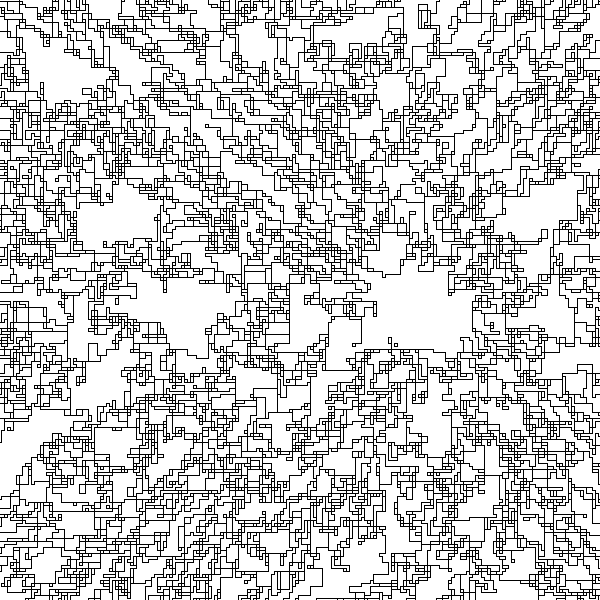
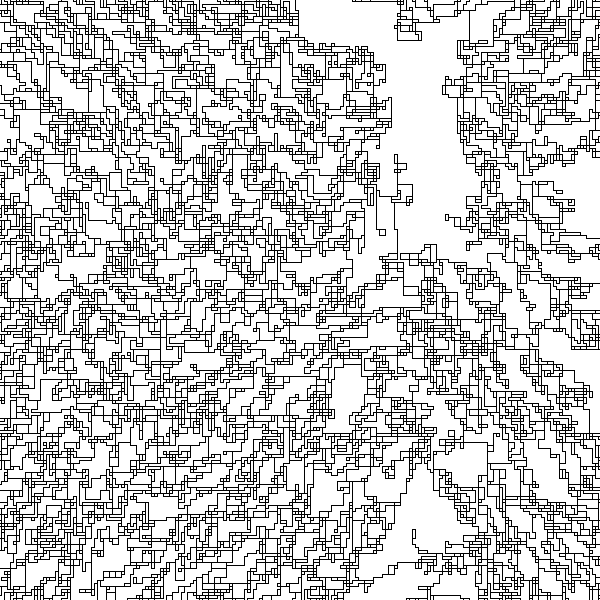
Optimised basic algorithm implementation

Changed region(s): [[0.0, 0.0, 1.0, 1.0]]

diff --git a/src/algorithm/basic.rs b/src/algorithm/basic.rs
@@ -2,14 +2,41 @@ use anyhow::{Result, bail};
 use fixedbitset::FixedBitSet;
 use indicatif::{ProgressBar, ProgressStyle};
 use ndarray::Array2;
-use photo::ALL_DIRECTIONS;
-use photo::Direction;
-use photo::Direction::*;
-use rand::distr::weighted::WeightedIndex;
-use rand::prelude::*;
-use std::collections::VecDeque;
+use photo::{ALL_DIRECTIONS, Direction};
+use rand::{distr::weighted::WeightedIndex, prelude::*};
+use std::{
+    cmp::Reverse,
+    collections::{BinaryHeap, VecDeque},
+};
 
 use crate::{Cell, Map, Rules, WaveFunction};
+
+// Precomputed direction deltas for faster access
+const DIRECTION_DELTAS: [(isize, isize); 4] = [
+    (-1, 0), // North
+    (0, 1),  // East
+    (1, 0),  // South
+    (0, -1), // West
+];
+
+// Helper struct to track entropy and position for the priority queue
+#[derive(PartialEq, Eq, Debug)]
+struct EntropyCell {
+    entropy: usize,
+    position: (usize, usize),
+}
+
+impl PartialOrd for EntropyCell {
+    fn partial_cmp(&self, other: &Self) -> Option<std::cmp::Ordering> {
+        Some(self.cmp(other))
+    }
+}
+
+impl Ord for EntropyCell {
+    fn cmp(&self, other: &Self) -> std::cmp::Ordering {
+        self.entropy.cmp(&other.entropy)
+    }
+}
 
 pub struct WaveFunctionBasic;
 
@@ -24,26 +51,32 @@ impl WaveFunction for WaveFunctionBasic {
         let mut domains = map.domains(num_tiles);
         let is_ignore = map.mask();
 
-        // Map directions to delta coordinates
-        fn delta_for_direction(dir: Direction) -> (isize, isize) {
-            match dir {
-                North => (-1, 0),
-                East => (0, 1),
-                South => (1, 0),
-                West => (0, -1),
+        // Pre-compute and cache domain sizes to avoid repeated counting
+        let mut domain_sizes = Array2::from_elem((height, width), 0);
+        let mut uncollapsed_cells = 0;
+
+        for y in 0..height {
+            for x in 0..width {
+                if !is_ignore[(y, x)] {
+                    let count = domains[(y, x)].count_ones(..);
+                    domain_sizes[(y, x)] = count;
+                    if count > 1 {
+                        uncollapsed_cells += 1;
+                    }
+                }
             }
         }
 
-        // Helper: run AC³ on the current domains, starting from `queue`
-        let mut queue = VecDeque::new();
-        let mut enqueue_all = || {
+        // Helper: run AC³ on the current domains, starting from given cells
+        let mut queue = VecDeque::with_capacity(4 * width * height);
+        let enqueue_all = |queue: &mut VecDeque<((usize, usize), (usize, usize), Direction)>| {
             for y in 0..height {
                 for x in 0..width {
                     if is_ignore[(y, x)] {
                         continue;
                     }
-                    for dir in ALL_DIRECTIONS.iter() {
-                        let (dy, dx) = delta_for_direction(*dir);
+                    for (i, dir) in ALL_DIRECTIONS.iter().enumerate() {
+                        let (dy, dx) = DIRECTION_DELTAS[i];
                         let ny = y.wrapping_add(dy as usize);
                         let nx = x.wrapping_add(dx as usize);
                         if ny < height && nx < width && !is_ignore[(ny, nx)] {
@@ -54,48 +87,92 @@ impl WaveFunction for WaveFunctionBasic {
             }
         };
 
+        // Optimized revise function
         fn revise(
             domains: &mut Array2<FixedBitSet>,
+            domain_sizes: &mut Array2<usize>,
             rules: &Rules,
             xi: (usize, usize),
             xj: (usize, usize),
             dir: Direction,
         ) -> bool {
-            let mut removed = Vec::new();
+            let mut modified = false;
+            let dir_index = dir.index::<usize>();
+
+            // Early exit if domain is already a singleton
+            if domain_sizes[xi] <= 1 {
+                return false;
+            }
+
+            // Fast path: if we have only one option in xj, we can directly filter xi
+            if domain_sizes[xj] == 1 {
+                let v = domains[xj].ones().next().unwrap();
+                let mut to_remove = Vec::new();
+
+                for u in domains[xi].ones() {
+                    if !rules.masks()[u][dir_index].contains(v) {
+                        to_remove.push(u);
+                    }
+                }
+
+                if !to_remove.is_empty() {
+                    let remove_count = to_remove.len();
+                    for &u in &to_remove {
+                        domains[xi].remove(u);
+                    }
+                    domain_sizes[xi] -= remove_count;
+                    modified = true;
+                }
+
+                return modified;
+            }
+
+            // Standard case: check each value in domain_i
+            let mut to_remove = Vec::new();
             for u in domains[xi].ones() {
-                let mut ok = false;
+                let mask = &rules.masks()[u][dir_index];
+                let mut has_support = false;
+
                 for v in domains[xj].ones() {
-                    if rules.masks()[u][dir.index::<usize>()].contains(v) {
-                        ok = true;
+                    if mask.contains(v) {
+                        has_support = true;
                         break;
                     }
                 }
-                if !ok {
-                    removed.push(u);
+
+                if !has_support {
+                    to_remove.push(u);
                 }
             }
-            if removed.is_empty() {
-                false
-            } else {
-                for u in removed {
+
+            if !to_remove.is_empty() {
+                let remove_count = to_remove.len();
+                for &u in &to_remove {
                     domains[xi].remove(u);
                 }
-                true
+                domain_sizes[xi] -= remove_count;
+                modified = true;
             }
+
+            modified
         }
 
-        // Full AC3 propagation
-        enqueue_all();
+        // Full AC3 propagation for initial setup
+        enqueue_all(&mut queue);
+
+        // Process the initial constraint queue
         while let Some((xi, xj, dir)) = queue.pop_front() {
-            if revise(&mut domains, rules, xi, xj, dir) {
-                if domains[xi].is_empty() {
+            if revise(&mut domains, &mut domain_sizes, rules, xi, xj, dir) {
+                if domain_sizes[xi] == 0 {
                     bail!("No valid tiles remain at cell ({}, {})", xi.0, xi.1);
                 }
-                // propagate change to neighbors of xi (except xj)
-                for neighbor_dir in ALL_DIRECTIONS.iter() {
-                    let (dy, dx) = delta_for_direction(*neighbor_dir);
+
+                // Propagate change to neighbors of xi (except xj)
+                for (i, neighbor_dir) in ALL_DIRECTIONS.iter().enumerate() {
+                    let (dy, dx) = DIRECTION_DELTAS[i];
                     let ny = xi.0.wrapping_add(dy as usize);
                     let nx = xi.1.wrapping_add(dx as usize);
+
                     if ny < height && nx < width {
                         let xk = (ny, nx);
                         if xk != xj && !is_ignore[xk] {
@@ -106,64 +183,68 @@ impl WaveFunction for WaveFunctionBasic {
             }
         }
 
-        // Count how many cells to collapse
-        let mut total = 0;
-        for y in 0..height {
-            for x in 0..width {
-                if !is_ignore[(y, x)] && domains[(y, x)].count_ones(..) > 1 {
-                    total += 1;
-                }
-            }
-        }
-
-        let pb = ProgressBar::new(total as u64);
+        // Set up progress bar
+        let pb = ProgressBar::new(uncollapsed_cells as u64);
         pb.set_style(
             ProgressStyle::with_template("{bar:40.cyan/blue} {pos}/{len} cells")
                 .unwrap()
                 .progress_chars("##-"),
         );
 
-        // Main loop: pick a cell with >1 possibility, collapse it, re-propagate
-        loop {
-            // Find the cell with the minimum number of possibilities
-            let mut best_idx = None;
-            let mut min_count = usize::MAX;
+        // Build a priority queue for selecting cells by entropy
+        let mut entropy_queue = BinaryHeap::with_capacity(uncollapsed_cells);
 
-            for y in 0..height {
-                for x in 0..width {
-                    if !is_ignore[(y, x)] && domains[(y, x)].count_ones(..) > 1 {
-                        let count = domains[(y, x)].count_ones(..);
-                        if count < min_count {
-                            min_count = count;
-                            best_idx = Some((y, x));
-                        }
-                    }
+        for y in 0..height {
+            for x in 0..width {
+                if !is_ignore[(y, x)] && domain_sizes[(y, x)] > 1 {
+                    entropy_queue.push(Reverse(EntropyCell {
+                        entropy: domain_sizes[(y, x)],
+                        position: (y, x),
+                    }));
                 }
             }
+        }
 
-            // If no more cells to collapse, we're done
-            let best_idx = match best_idx {
-                Some(idx) => idx,
-                None => break,
-            };
+        // Main loop: pick a cell with minimum entropy, collapse it, re-propagate
+        while let Some(Reverse(cell)) = entropy_queue.pop() {
+            let best_idx = cell.position;
+
+            // Skip if the domain has changed since this was added to the queue
+            if domain_sizes[best_idx] != cell.entropy {
+                // If the cell is already collapsed, skip it
+                if domain_sizes[best_idx] <= 1 {
+                    continue;
+                }
+
+                // Re-add with updated entropy
+                entropy_queue.push(Reverse(EntropyCell {
+                    entropy: domain_sizes[best_idx],
+                    position: best_idx,
+                }));
+                continue;
+            }
 
             // Pick one tile weighted by frequency
-            let options: Vec<usize> = domains[best_idx].ones().collect();
+            let domain = &domains[best_idx];
+            let options: Vec<usize> = domain.ones().collect();
             let weights: Vec<usize> = options.iter().map(|&t| rules.frequencies()[t]).collect();
             let dist = WeightedIndex::new(&weights).unwrap();
             let choice = options[dist.sample(rng)];
 
             pb.inc(1);
 
-            // Fix it
+            // Fix the chosen cell
             domains[best_idx].clear();
             domains[best_idx].insert(choice);
+            domain_sizes[best_idx] = 1;
 
             // Propagate from this collapse
-            for dir in ALL_DIRECTIONS.iter() {
-                let (dy, dx) = delta_for_direction(*dir);
+            queue.clear();
+            for (i, dir) in ALL_DIRECTIONS.iter().enumerate() {
+                let (dy, dx) = DIRECTION_DELTAS[i];
                 let ny = best_idx.0.wrapping_add(dy as usize);
                 let nx = best_idx.1.wrapping_add(dx as usize);
+
                 if ny < height && nx < width {
                     let neighbor = (ny, nx);
                     if !is_ignore[neighbor] {
@@ -172,19 +253,28 @@ impl WaveFunction for WaveFunctionBasic {
                 }
             }
 
+            // Process constraints
             while let Some((xi, xj, dir)) = queue.pop_front() {
-                if revise(&mut domains, rules, xi, xj, dir) {
-                    if domains[xi].is_empty() {
+                if revise(&mut domains, &mut domain_sizes, rules, xi, xj, dir) {
+                    if domain_sizes[xi] == 0 {
                         bail!(
                             "No valid tiles remain after collapse at ({}, {})",
                             xi.0,
                             xi.1
                         );
                     }
-                    for neighbor_dir in ALL_DIRECTIONS.iter() {
-                        let (dy, dx) = delta_for_direction(*neighbor_dir);
+
+                    // If domain became a singleton, update the heap with newly impacted cells
+                    if domain_sizes[xi] == 1 {
+                        pb.inc(1);
+                    }
+
+                    // Propagate to neighbors
+                    for (i, neighbor_dir) in ALL_DIRECTIONS.iter().enumerate() {
+                        let (dy, dx) = DIRECTION_DELTAS[i];
                         let ny = xi.0.wrapping_add(dy as usize);
                         let nx = xi.1.wrapping_add(dx as usize);
+
                         if ny < height && nx < width {
                             let xk = (ny, nx);
                             if xk != xj && !is_ignore[xk] {
@@ -195,6 +285,7 @@ impl WaveFunction for WaveFunctionBasic {
                 }
             }
         }
+
         pb.finish_and_clear();
 
         // Build the final map
@@ -203,11 +294,12 @@ impl WaveFunction for WaveFunctionBasic {
             for x in 0..width {
                 if !is_ignore[(y, x)] {
                     let mut bits = domains[(y, x)].ones();
-                    let tile = bits.next().unwrap(); // <-- pull the single value
+                    let tile = bits.next().unwrap();
                     result[(y, x)] = Cell::Fixed(tile);
                 }
             }
         }
+
         Ok(result)
     }
 }

diff --git a/src/algorithm/backtracking.rs b/src/algorithm/backtracking.rs
@@ -1,12 +1,12 @@
 use anyhow::{Result, bail};
 use fixedbitset::FixedBitSet;
 use indicatif::{ProgressBar, ProgressStyle};
-use photo::ALL_DIRECTIONS;
-use photo::Direction;
-use rand::distr::weighted::WeightedIndex;
-use rand::prelude::*;
-use std::collections::{HashSet, VecDeque};
-use std::time::{Duration, Instant};
+use photo::{ALL_DIRECTIONS, Direction};
+use rand::{distr::weighted::WeightedIndex, prelude::*};
+use std::{
+    collections::{HashSet, VecDeque},
+    time::{Duration, Instant},
+};
 
 use crate::{Cell, Map, Rules, WaveFunction};
 

diff --git a/src/algorithm/optimised.rs b/src/algorithm/optimised.rs
@@ -1,10 +1,8 @@
 use anyhow::{Result, bail};
 use fixedbitset::FixedBitSet;
 use indicatif::{ProgressBar, ProgressStyle};
-use photo::ALL_DIRECTIONS;
-use photo::Direction;
-use rand::distr::weighted::WeightedIndex;
-use rand::prelude::*;
+use photo::{ALL_DIRECTIONS, Direction};
+use rand::{distr::weighted::WeightedIndex, prelude::*};
 use std::collections::{HashSet, VecDeque};
 
 use crate::{Cell, Map, Rules, WaveFunction};
